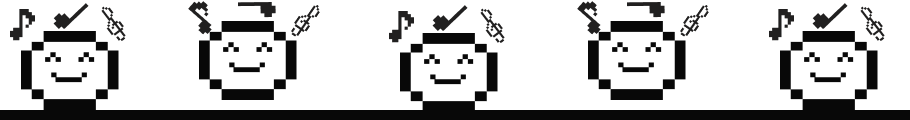
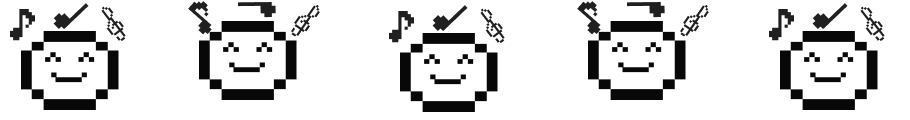
removed black lines from animations and changed surprise me button

Changed region(s): [[0.0, 0.9, 1.0, 1.0]]

diff --git a/client/src/containers/GameContainer.js b/client/src/containers/GameContainer.js
@@ -8,7 +8,7 @@ import Egg from '../components/Monster';
 import startButton from '../images/start.png';
 import playAgainButton from '../images/playagain.png';
 import homeButton from '../images/home.png';
-import surpriseMeButton from '../images/surprise.png';
+import surpriseMeButton from '../images/suprise.png'
 import { Idle } from '../components/Monster';
 import { Sick } from '../components/Monster';
 import { Grave } from '../components/Monster';
